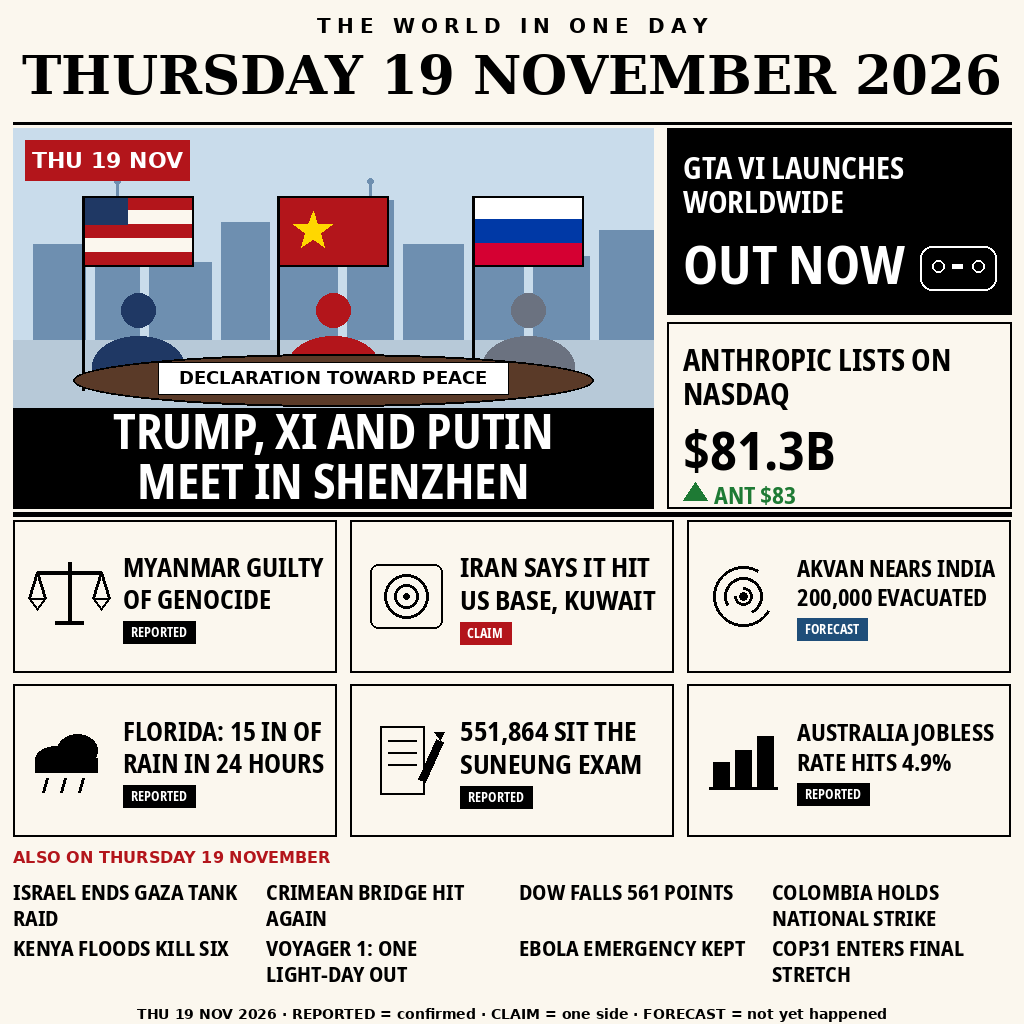
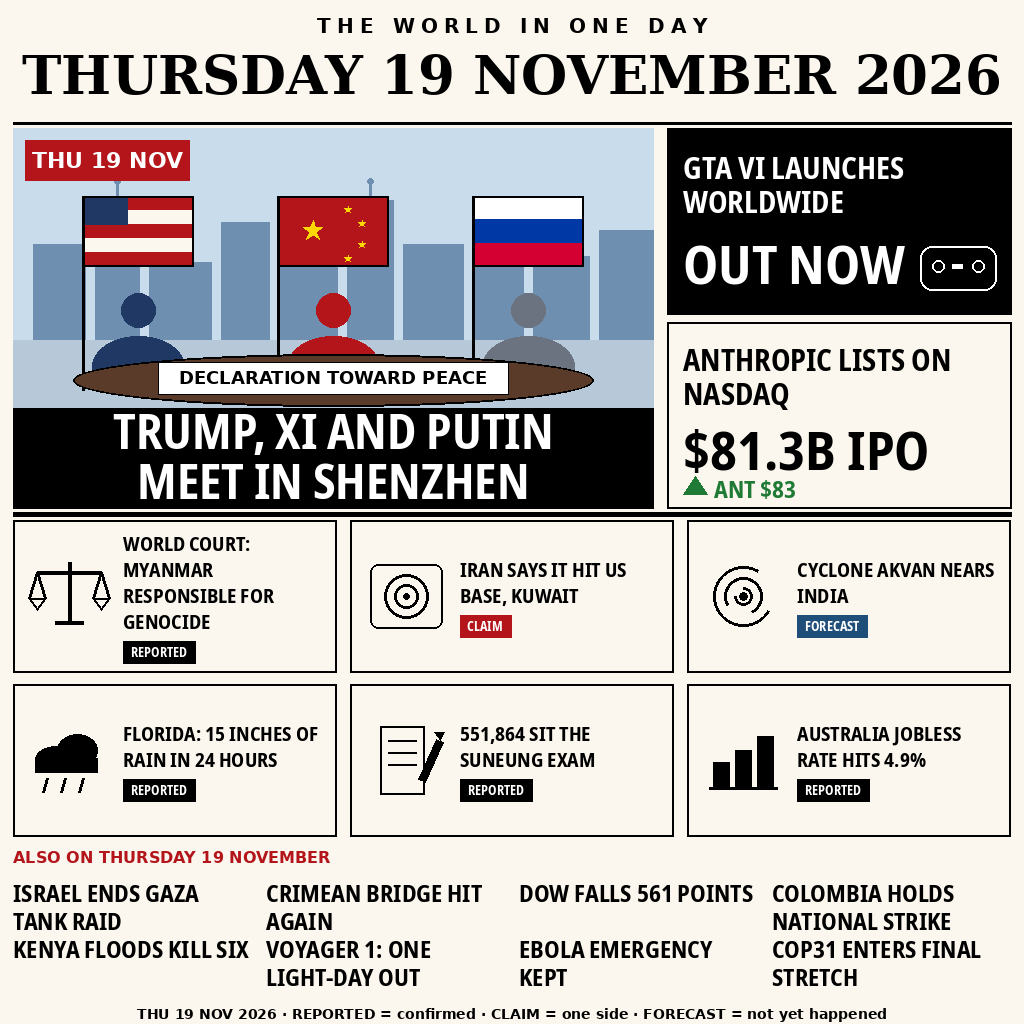
fix: Claude R1 - China flag 1+4 stars, WORLD COURT Myanmar, INCHES, IPO label, uniform mid 20, strip 24

diff --git a/main.py b/main.py
@@ -120,7 +120,11 @@ def draw_flag_us(d, x, y):
 
 def draw_flag_cn(d, x, y):
     d.rectangle([x, y, x + 110, y + 70], fill=RED)
-    d.polygon(star_points(x + 35, y + 35, 20, 8), fill=YELLOW)
+    # one large star + four small stars in an arc (China, not Vietnam)
+    d.polygon(star_points(x + 35, y + 35, 10.5, 4.2), fill=YELLOW)
+    for sx, sy in ((x + 70, y + 14), (x + 84, y + 28), (x + 84, y + 49),
+                   (x + 70, y + 63)):
+        d.polygon(star_points(sx, sy, 3.5, 1.4), fill=YELLOW)
     d.rectangle([x, y, x + 110, y + 70], outline=INK, width=2)
 
 
@@ -217,12 +221,12 @@ def draw_right_cards(d):
     for ln in lines:
         d.text((683, y), ln, font=f, fill=INK, anchor="la")
         y += 34
-    big_f = font(COND_BOLD, 54)
-    d.text((683, 412), "$81.3B", font=big_f, fill=INK, anchor="la")
+    big_f, _ = fit_single(COND_BOLD, "$81.3B IPO", 312, 54, 40)
+    d.text((683, 412), "$81.3B IPO", font=big_f, fill=INK, anchor="la")
     # green up arrow (drawn triangle) + ANT $83
-    d.polygon([(683, 500), (695, 482), (707, 500)], fill=GREEN)
+    d.polygon([(683, 494), (695, 476), (707, 494)], fill=GREEN)
     sub_f = font(COND_BOLD, 24)
-    d.text((714, 478), "ANT $83", font=sub_f, fill=GREEN, anchor="la")
+    d.text((714, 472), "ANT $83", font=sub_f, fill=GREEN, anchor="la")
 
 
 # ---------------------------------------------------------------- mid grid
@@ -279,15 +283,32 @@ def icon_bars(d, ix, iy):
 
 
 MID = [
-    ("MYANMAR GUILTY OF GENOCIDE", "REPORTED", icon_scales, INK),
+    ("WORLD COURT: MYANMAR RESPONSIBLE FOR GENOCIDE", "REPORTED", icon_scales, INK),
     ("IRAN SAYS IT HIT US BASE, KUWAIT", "CLAIM", icon_target, RED),
-    ("AKVAN NEARS INDIA 200,000 EVACUATED", "FORECAST", icon_cyclone, BLUE),
-    ("FLORIDA: 15 IN OF RAIN IN 24 HOURS", "REPORTED", icon_rain, INK),
+    ("CYCLONE AKVAN NEARS INDIA", "FORECAST", icon_cyclone, BLUE),
+    ("FLORIDA: 15 INCHES OF RAIN IN 24 HOURS", "REPORTED", icon_rain, INK),
     ("551,864 SIT THE SUNEUNG EXAM", "REPORTED", icon_exam, INK),
     ("AUSTRALIA JOBLESS RATE HITS 4.9%", "REPORTED", icon_bars, INK),
 ]
 
 TAG_FILL = {"REPORTED": INK, "CLAIM": RED, "FORECAST": BLUE}
+
+
+def _uniform_mid_size():
+    """Largest size in [20..27] where EVERY MID headline wraps to <=3 lines
+    at width 201 (per-headline largest fitting size, then the minimum)."""
+    sizes = []
+    for headline, _, _, _ in MID:
+        s = 20
+        for cand in range(27, 19, -1):
+            if len(wrap_lines(font(COND_BOLD, cand), headline, 201)) <= 3:
+                s = cand
+                break
+        sizes.append(s)
+    return min(sizes)
+
+
+MID_SIZE = _uniform_mid_size()
 
 
 def draw_mid_grid(d):
@@ -300,7 +321,9 @@ def draw_mid_grid(d):
         d.rectangle([x, y, x + 323, y + 152], fill=CREAM, outline=INK, width=2)
         icon_fn(d, x + 14, y + 34)
         tx = x + 110
-        f, lines, size = fit_wrap(COND_BOLD, headline, 201, 27, 20)
+        f = font(COND_BOLD, MID_SIZE)
+        lines = wrap_lines(f, headline, 201)
+        size = MID_SIZE
         leading = size + 6
         block = len(lines) * leading + 8 + 22
         ty = y + (152 - block) // 2
@@ -337,11 +360,11 @@ def draw_strip(d):
     for i, item in enumerate(STRIP):
         x = xs[i % 4]
         y = ys[i // 4]
-        f, lines, _ = fit_wrap(COND_BOLD, item, 239, 22, 18)
+        f, lines, _ = fit_wrap(COND_BOLD, item, 239, 24, 20)
         ty = y
         for ln in lines:
             d.text((x, ty), ln, font=f, fill=INK, anchor="la")
-            ty += 26
+            ty += 28
 
 
 def draw_footer(d):
